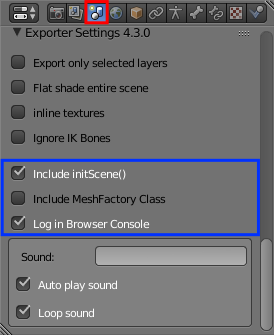
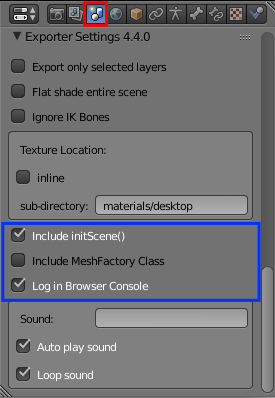
Tower of Babel v 4.4.0
Support for saving textures in a sub-directory from the main file.

diff --git a/QueuedInterpolation/Blender/io_tower_of_babel.py b/QueuedInterpolation/Blender/io_tower_of_babel.py
@@ -1,7 +1,7 @@
 bl_info = {
     'name': 'Tower of Babel',
     'author': 'David Catuhe, Jeff Palmer',
-    'version': (4, 3, 1),
+    'version': (4, 4, 0),
     'blender': (2, 75, 0),
     'location': 'File > Export > Tower of Babel [.js + .d.ts]',
     'description': 'Translate to inline JavaScript & TypeScript modules',
@@ -163,9 +163,14 @@ class ExporterSettingsPanel(bpy.types.Panel):
         default = True
         )
     bpy.types.Scene.inlineTextures = bpy.props.BoolProperty(
-        name="inline textures",
+        name="inline",
         description="turn textures into encoded strings, for direct inclusion into source code",
         default = False,
+        )
+    bpy.types.Scene.textureDir = bpy.props.StringProperty(
+        name='sub-directory',
+        description='The path below the output directory to write texture files (any separators OS dependent)',
+        default = ''
         )
     bpy.types.Scene.ignoreIKBones = bpy.props.BoolProperty(
         name="Ignore IK Bones",
@@ -194,10 +199,14 @@ class ExporterSettingsPanel(bpy.types.Panel):
         scene = context.scene
         layout.prop(scene, "export_onlySelectedLayer")
         layout.prop(scene, "export_flatshadeScene")
-        layout.prop(scene, "inlineTextures")
         layout.prop(scene, "ignoreIKBones")
 
-        layout.separator()
+        box = layout.box()
+        box.label(text='Texture Location:')
+        box.prop(scene, "inlineTextures")
+        row = box.row()
+        row.enabled = not scene.inlineTextures
+        row.prop(scene, "textureDir")
 
         layout.prop(scene, "includeInitScene")
         layout.prop(scene, "includeMeshFactory")
@@ -303,11 +312,21 @@ class Main(bpy.types.Operator, bpy_extras.io_utils.ExportHelper):
             if bpy.ops.object.mode_set.poll():
                 bpy.ops.object.mode_set(mode = 'OBJECT')
 
+            # assign texture location, purely temporary if inlining
+            self.textureDir = os.path.dirname(self.filepath)
+            if not scene.inlineTextures:
+                self.textureDir = os.path.join(self.textureDir, scene.textureDir)
+                if not os.path.isdir(self.textureDir):
+                    raise EnvironmentError('directory for textures, ' + self.textureDir + ', DOES NOT EXIST')
+
             Main.log('========= Conversion from Blender to Babylon.js =========', 0)
             Main.log('Scene settings used:', 1)
             Main.log('selected layers only:  ' + format_bool(scene.export_onlySelectedLayer), 2)
             Main.log('flat shading entire scene:  ' + format_bool(scene.export_flatshadeScene), 2)
             Main.log('inline textures:  ' + format_bool(scene.inlineTextures), 2)
+            if not scene.inlineTextures:
+                Main.log('texture directory:  ' + self.textureDir, 2)
+
             self.world = World(scene)
 
             bpy.ops.screen.animation_cancel()
@@ -2689,29 +2708,28 @@ class Texture:
             if len(usingMap) == 0:
                 usingMap = mesh.data.uv_textures[0].name
 
-            Main.log('Image texture found, type:  ' + slot + ', mapped using: "' + usingMap + '"', 3)
+            Main.log('Image texture found, type:  ' + slot + ', mapped using: "' + usingMap + '"', 4)
             if mesh.data.uv_textures[0].name == usingMap:
                 self.coordinatesIndex = 0
             elif mesh.data.uv_textures[1].name == usingMap:
                 self.coordinatesIndex = 1
             else:
-                Main.warn('Texture is not mapped as UV or UV2, assigned 1', 4)
+                Main.warn('Texture is not mapped as UV or UV2, assigned 1', 5)
                 self.coordinatesIndex = 0
 
         # always write the file out, since base64 encoding is easiest from a file
         try:
             imageFilepath = os.path.normpath(bpy.path.abspath(image.filepath))
             basename = os.path.basename(imageFilepath)
-            targetdir = os.path.dirname(exporter.filepath)
 
             internalImage = image.packed_file or wasBaked
 
             # when coming from either a packed image or a baked image, then save_render
             if internalImage:
                 if exporter.scene.inlineTextures:
-                    textureFile = os.path.join(targetdir, basename + "temp")
+                    textureFile = os.path.join(exporter.textureDir, basename + "temp")
                 else:
-                    textureFile = os.path.join(targetdir, basename)
+                    textureFile = os.path.join(exporter.textureDir, basename)
 
                 image.save_render(textureFile)
 
@@ -2719,10 +2737,10 @@ class Texture:
             else:
                 textureFile = bpy.path.abspath(image.filepath)
                 if not exporter.scene.inlineTextures:
-                    shutil.copy(textureFile, targetdir)
+                    shutil.copy(textureFile, exporter.textureDir)
         except:
             ex = sys.exc_info()
-            Main.log('Error encountered processing image file:  ' + ', Error:  '+ str(ex[1]))
+            Main.warn('Error encountered processing image file:  ' + ', Error:  '+ str(ex[1]))
 
         if exporter.scene.inlineTextures:
             # base64 is easiest from a file, so sometimes a temp file was made above;  need to delete those
@@ -3036,34 +3054,34 @@ class StdMaterial(Material):
 
             if mtex.use_map_diffuse or mtex.use_map_color_diffuse:
                 if mtex.texture_coords == 'REFLECTION':
-                    Main.log('Reflection texture found"' + mtex.name + '"', 2)
+                    Main.log('Reflection texture found "' + mtex.name + '"', 3)
                     self.textures.append(Texture('reflectionTexture', mtex.diffuse_color_factor, mtex, mesh, exporter))
                 else:
-                    Main.log('Diffuse texture found"' + mtex.name + '"', 2)
+                    Main.log('Diffuse texture found "' + mtex.name + '"', 3)
                     self.textures.append(Texture('diffuseTexture', mtex.diffuse_color_factor, mtex, mesh, exporter))
 
             if mtex.use_map_ambient:
-                Main.log('Ambient texture found"' + mtex.name + '"', 2)
+                Main.log('Ambient texture found "' + mtex.name + '"', 3)
                 self.textures.append(Texture('ambientTexture', mtex.ambient_factor, mtex, mesh, exporter))
 
             if mtex.use_map_alpha:
                 if self.alpha > 0:
-                    Main.log('Opacity texture found"' + mtex.name + '"', 2)
+                    Main.log('Opacity texture found "' + mtex.name + '"', 3)
                     self.textures.append(Texture('opacityTexture', mtex.alpha_factor, mtex, mesh, exporter))
                 else:
-                    Main.warn('Opacity non-std way to indicate opacity, use material alpha to also use Opacity texture', 2)
+                    Main.warn('Opacity non-std way to indicate opacity, use material alpha to also use Opacity texture', 4)
                     self.alpha = 1
 
             if mtex.use_map_emit:
-                Main.log('Emissive texture found"' + mtex.name + '"', 2)
+                Main.log('Emissive texture found "' + mtex.name + '"', 3)
                 self.textures.append(Texture('emissiveTexture', mtex.emit_factor, mtex, mesh, exporter))
 
             if mtex.use_map_normal:
-                Main.log('Bump texture found"' + mtex.name + '"', 2)
+                Main.log('Bump texture found "' + mtex.name + '"', 3)
                 self.textures.append(Texture('bumpTexture', 1.0 / mtex.normal_factor, mtex, mesh, exporter))
 
             if mtex.use_map_color_spec:
-                Main.log('Specular texture found"' + mtex.name + '"', 2)
+                Main.log('Specular texture found "' + mtex.name + '"', 3)
                 self.textures.append(Texture('specularTexture', mtex.specular_color_factor, mtex, mesh, exporter))
 #===============================================================================
 class BakedMaterial(Material):

diff --git a/QueuedInterpolation/Blender/README.md b/QueuedInterpolation/Blender/README.md
@@ -1,4 +1,4 @@
-#Tower of Babel Exporter for Blender, 4.3
+#Tower of Babel Exporter for Blender, 4.4
 <img src="doc-assist/get_baked.png">
 ## Background ##
 
@@ -13,6 +13,9 @@ Hmm, if there was also a method in each class named `to_script_file(is_typescrip
 Eventually, the .babylon exporter was replaced with the Tower of Babel code base, with source code generation removed.  Tower of Babel, itself, no-longer generates a .babylon file.  There is an attempt to keep the first pass of both as similar as possible using diff tools.  Either exporter can be used in Blender without the other.  
 
 They can also both be present.  When this is the case, the custom properties of only one will display, the last used or installed.  You can also explicitly turn one off in Blender Preferences.  Fortunately, the common properties are named the same, so the settings transfer back and forth.
+
+##New in 4.4##
+- Support for saving textures in a sub-directory from the main file.
 
 ##New in 4.3##
 - Fixes from 4.2.1: Node typo, better .ik bone detection, & rest pose for bones.
